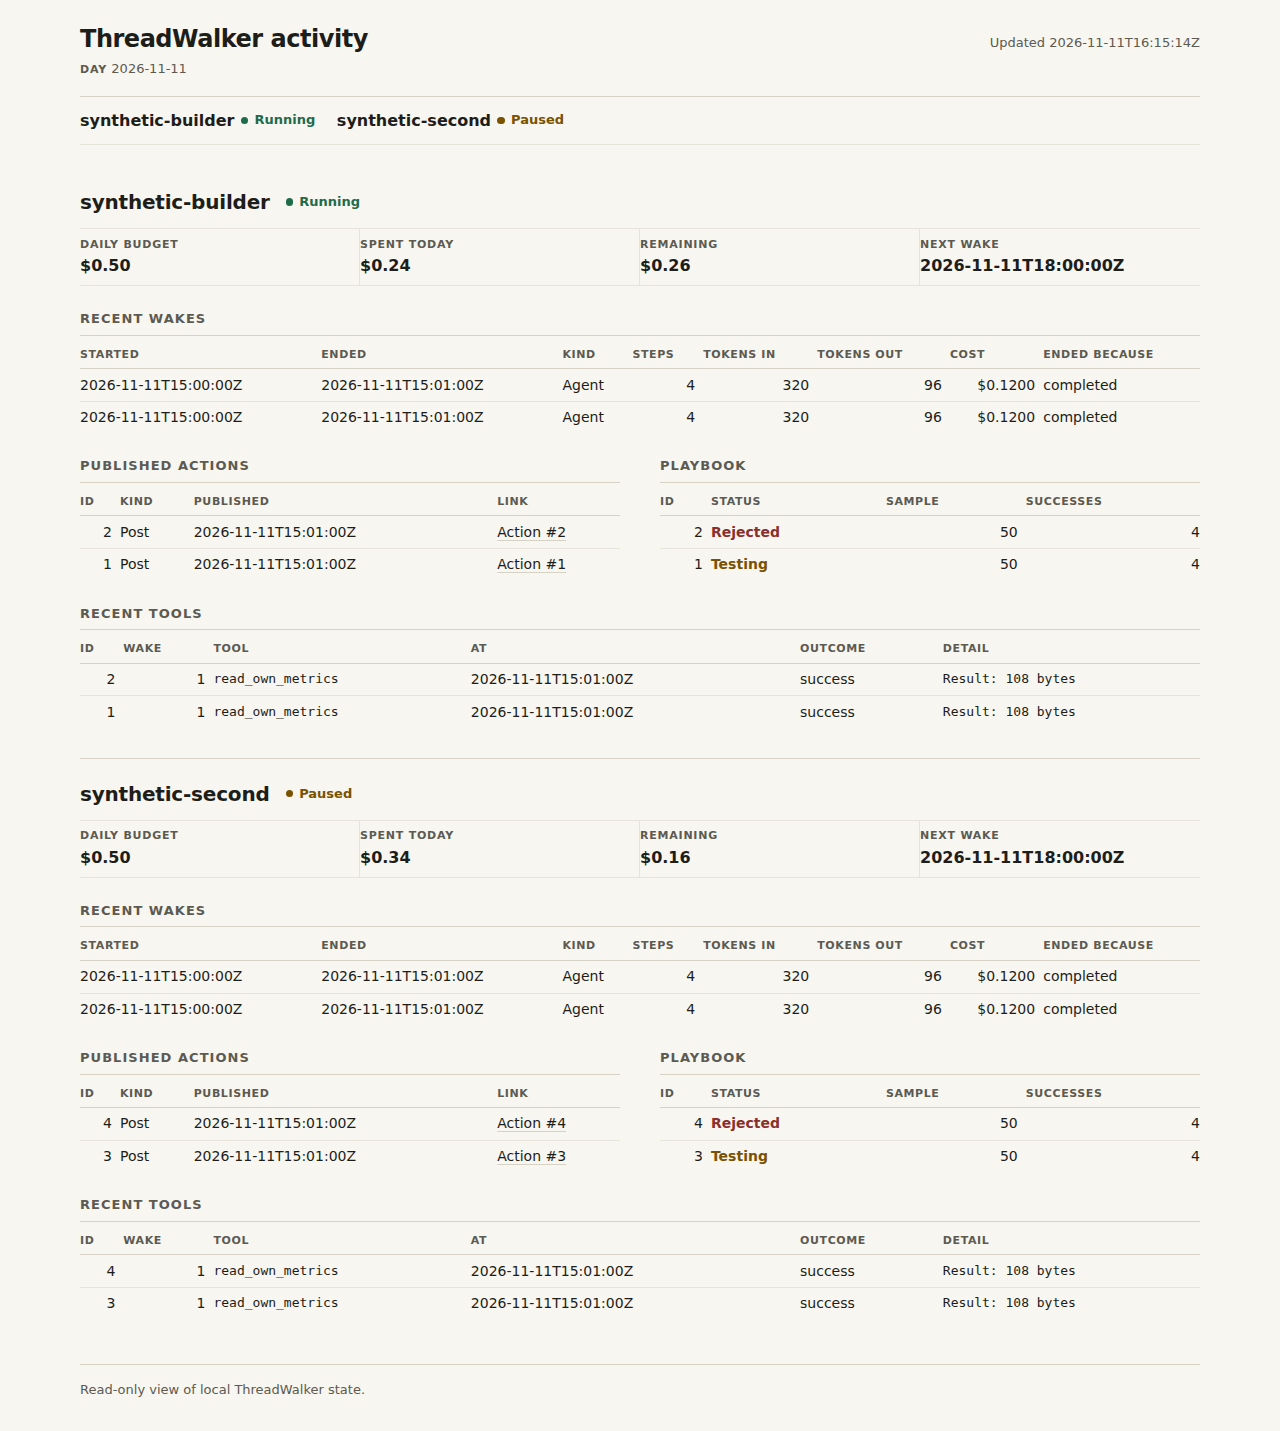
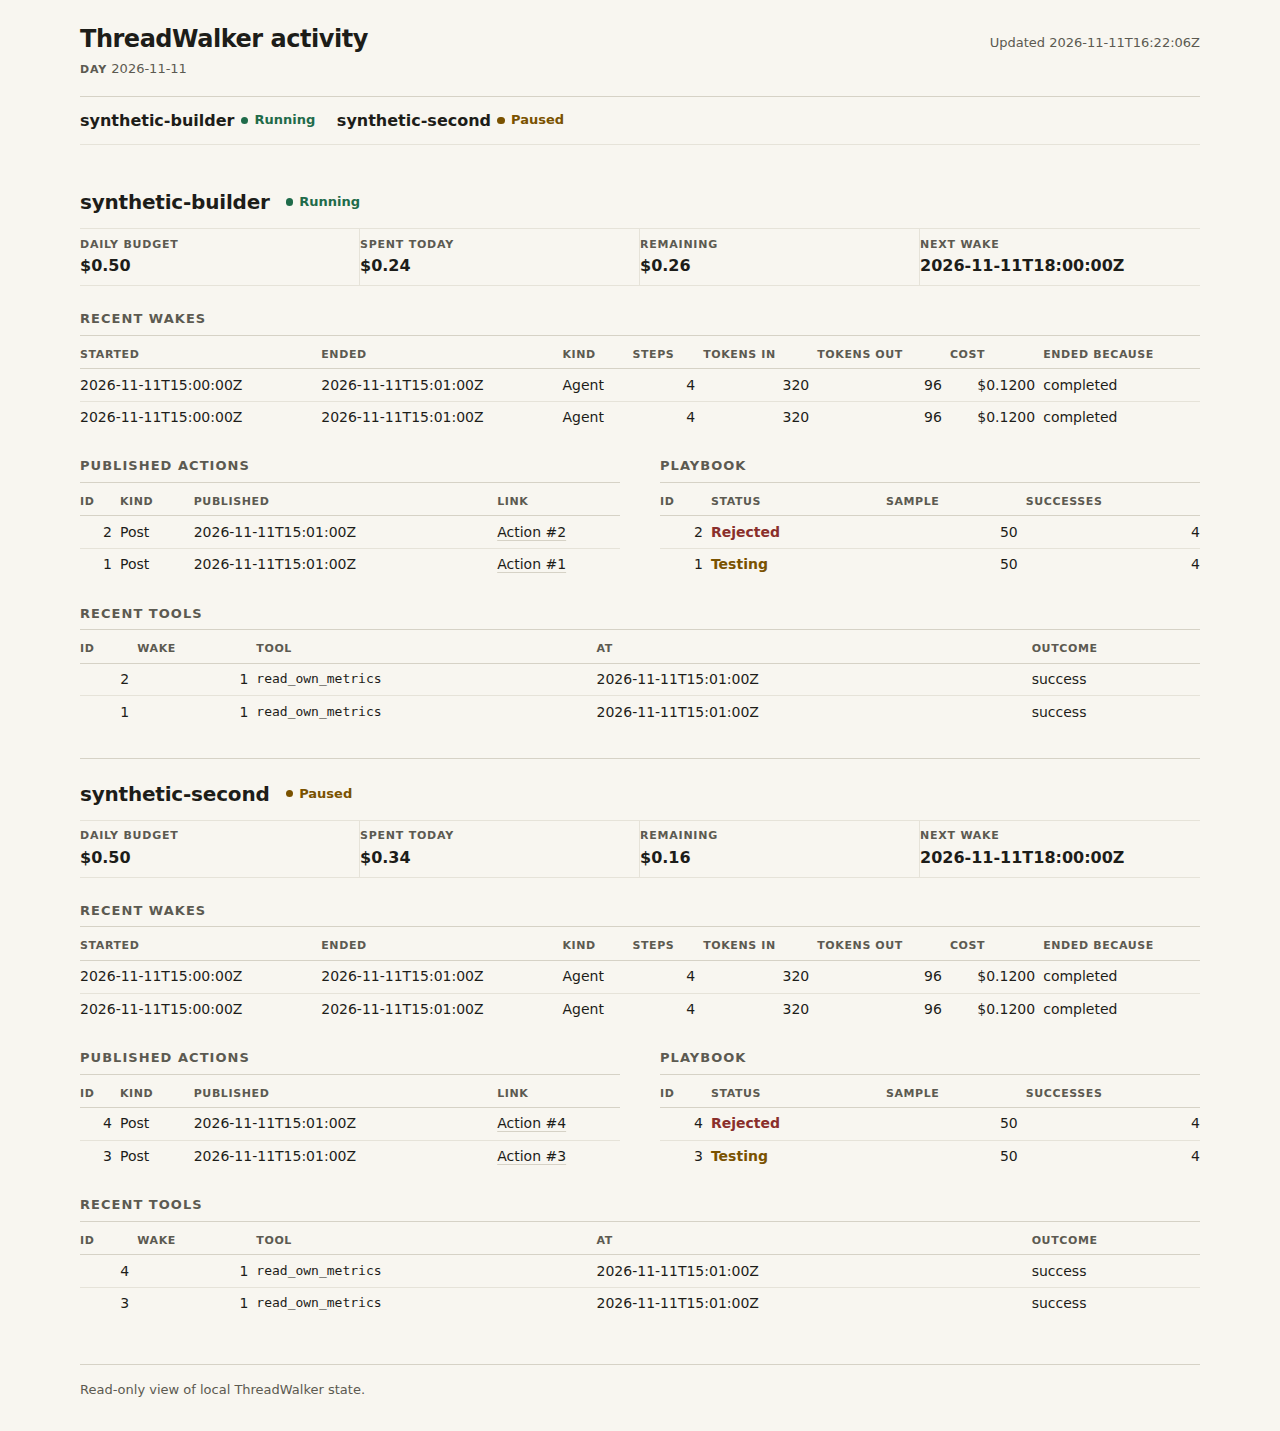
Remove byte-only tool details and refresh dashboard render evidence for #11

diff --git a/internal/dashboard/templates/index.html b/internal/dashboard/templates/index.html
@@ -168,7 +168,6 @@
           <th scope="col">Tool</th>
           <th scope="col">At</th>
           <th scope="col">Outcome</th>
-          <th scope="col">Detail</th>
         </tr>
       </thead>
       <tbody>
@@ -179,7 +178,6 @@
           <td class="mono" data-label="Tool">{{.Name}}</td>
           <td data-label="At">{{if .At}}<time>{{.At}}</time>{{else}}Not recorded{{end}}</td>
           <td data-label="Outcome">{{if eq .Outcome "ok"}}OK{{else if .Outcome}}{{.Outcome}}{{else}}Not recorded{{end}}</td>
-          <td class="mono" data-label="Detail">{{if .Detail}}{{.Detail}}{{else}}<span class="muted">No detail</span>{{end}}</td>
         </tr>
         {{end}}
       </tbody>

diff --git a/internal/dashboard/dashboard_test.go b/internal/dashboard/dashboard_test.go
@@ -125,6 +125,9 @@ func TestHTTPResponsesNeverReflectPrivateStateOrRequests(t *testing.T) {
 			if tc.method == "HEAD" && rr.Body.Len() != 0 {
 				t.Fatal("HEAD returned body")
 			}
+			if strings.Contains(rr.Body.String(), "Result:") {
+				t.Fatal("implementation byte counts rendered")
+			}
 			if rr.Header().Get("Content-Security-Policy") == "" || rr.Header().Get("Cache-Control") != "no-store" {
 				t.Fatal("missing response protections")
 			}
@@ -188,8 +191,8 @@ func TestToolMetadataAllowlistAndBoundedHistory(t *testing.T) {
 		t.Fatal(err)
 	}
 	for _, tc := range []struct{ name, result, blocked, outcome, detail string }{
-		{"read_own_metrics", `{"outcome":"success","bytes":42}`, "", "success", "Result: 42 bytes"},
-		{"schedule_next_wake", `{"outcome":"error","bytes":0}`, "", "error", "Result: 0 bytes"},
+		{"read_own_metrics", `{"outcome":"success","bytes":42}`, "", "success", ""},
+		{"schedule_next_wake", `{"outcome":"error","bytes":0}`, "", "error", ""},
 		{"search", `{"outcome":"success","bytes":42}`, "", "success", ""},
 		{"private-tool", `{"outcome":"success","bytes":42}`, "", "success", ""},
 		{"read_own_metrics", `{"outcome":"sk-secret","bytes":42}`, "", "unknown", ""},

diff --git a/internal/dashboard/privacy.go b/internal/dashboard/privacy.go
@@ -2,7 +2,6 @@ package dashboard
 
 import (
 	"encoding/json"
-	"fmt"
 	"io"
 	"net/url"
 	"strings"
@@ -45,7 +44,7 @@ func ownURL(raw, username string) string {
 	return u.String()
 }
 
-func toolSummary(name, raw string, blocked bool) (string, string) {
+func toolSummary(raw string, blocked bool) (string, string) {
 	if blocked {
 		return "blocked", ""
 	}
@@ -67,8 +66,5 @@ func toolSummary(name, raw string, blocked bool) (string, string) {
 		return "unknown", ""
 	}
 	outcome := oneOf(value.Outcome, "success", "error", "unknown_assumed_sent", "interrupted_read")
-	if (name == "schedule_next_wake" || name == "read_own_metrics") && value.Bytes != nil && *value.Bytes >= 0 && *value.Bytes <= 1<<30 && (outcome == "success" || outcome == "error") {
-		return outcome, fmt.Sprintf("Result: %d bytes", *value.Bytes)
-	}
 	return outcome, ""
 }

diff --git a/internal/dashboard/dashboard.go b/internal/dashboard/dashboard.go
@@ -259,7 +259,7 @@ func readAgent(ctx context.Context, tx *sql.Tx, a Agent, day string) (AgentView,
 		}
 		tool.Name = oneOf(tool.Name, "read_feed", "search", "read_post", "post", "reply", "read_own_metrics", "fetch_trends", "note_write", "note_search", "playbook_read", "playbook_propose", "notify_owner", "ask_owner", "mark_do_not_contact", "schedule_next_wake")
 		tool.At = timestamp(tool.At)
-		tool.Outcome, tool.Detail = toolSummary(tool.Name, result, blocked)
+		tool.Outcome, tool.Detail = toolSummary(result, blocked)
 		v.Tools = append(v.Tools, tool)
 	}
 	err = rows.Err()

diff --git a/internal/dashboard/testdata/ui/README.md b/internal/dashboard/testdata/ui/README.md
@@ -1,15 +1,15 @@
 # Dashboard UI evidence (synthetic only)
 
 These captures come from the actual compiled dashboard server (`http://127.0.0.1:18081/`)
-serving the template and CSS at commit `93fca50`, against a temporary SQLite database
+serving the final template and CSS (byte-only tool details removed), against a temporary SQLite database
 seeded with two secret-free synthetic templates. No real Threads account, Telegram bot,
 provider API, VPS or operator `.env` was used.
 
 | Width | Screenshot | Layout measurements | Rendered page |
 |---|---|---|---|
 | 1280px desktop | `dashboard-1280.png` (1280x1431) | `layout-1280.json` | full page |
-| 390px phone | `dashboard-390.png` (390x3664) | `layout-390.json` | full page |
-| 320px phone | `dashboard-320.png` (320x3657) | `layout-320.json` | full page |
+| 390px phone | `dashboard-390.png` (390x3579) | `layout-390.json` | full page |
+| 320px phone | `dashboard-320.png` (320x3573) | `layout-320.json` | full page |
 
 The Orca embedded browser rendered each width with the viewport height set to the page's
 rendered scroll height, so one screenshot covers the whole page without stitching. For each
@@ -19,5 +19,8 @@ The page was inspected at each size; the only visual defect found was the deskto
 timestamp breaking at hyphens, fixed in the committed CSS by making agent figures full width.
 
 The data is illustrative synthetic state: two agents, budgets, wakes, confirmed actions,
-playbook entries and allowlisted tool details. The screenshots are not live engagement or
+playbook entries and safe tool names/outcomes. The screenshots are not live engagement or
 deployment evidence.
+
+Final captures were refreshed after removing the tool-result byte count and Detail column;
+all three layout files also record `byte_detail_present: false`.

diff --git a/docs/spec.md b/docs/spec.md
@@ -505,7 +505,7 @@ issue scope, owner-provided account/session and explicit live-run approval. **(d
 ## 14. Read-only activity page and repo layout
 
 `dashboard` serves selected configured agent IDs and today's budget/spend, wake history,
-confirmed own actions, hypothesis state/counters and allowlisted numeric tool summaries.
+confirmed own actions, hypothesis state/counters and recent tool names/outcomes.
 The HTTP service defaults to `127.0.0.1:8080`, accepts GET/HEAD only, and uses a read-only
 SQLite handle without migrations or agent initialization. Config declarations/references
 are validated through `config.LoadPublicDirWithCatalog` without resolving any credentials.

diff --git a/docs/research/dashboard-local.md b/docs/research/dashboard-local.md
@@ -81,7 +81,7 @@ fixture above. The final captured widths were **1280, 390 and 320 CSS pixels**.
 At each width, `scrollWidth == clientWidth`; the recorded visible-element and table
 overflow counts were zero. Phone tables reflow into labeled rows, and timestamp values
 remain readable. Both agents, safe action links, playbook IDs/status/counts and tool
-metadata were inspected. No published link was followed.
+names/outcomes were inspected. No published link was followed.
 
 The checked screenshots and per-width layout JSON are in
 [`internal/dashboard/testdata/ui`](../../internal/dashboard/testdata/ui/README.md).
